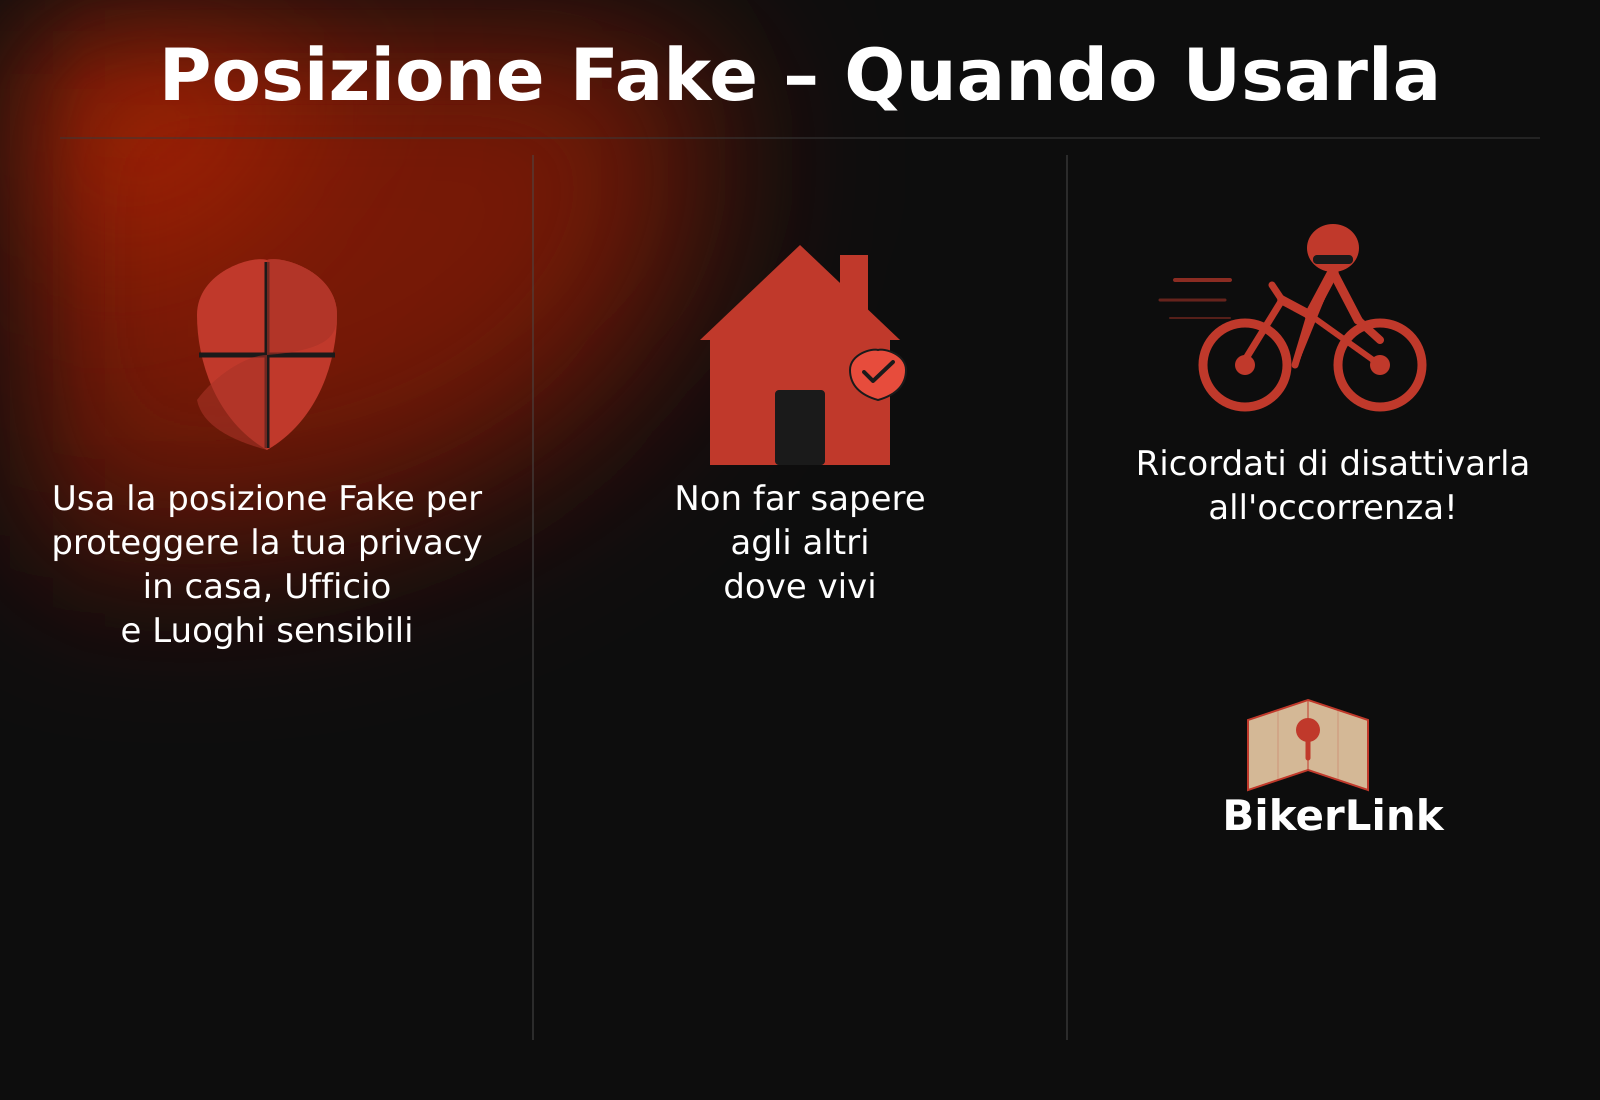
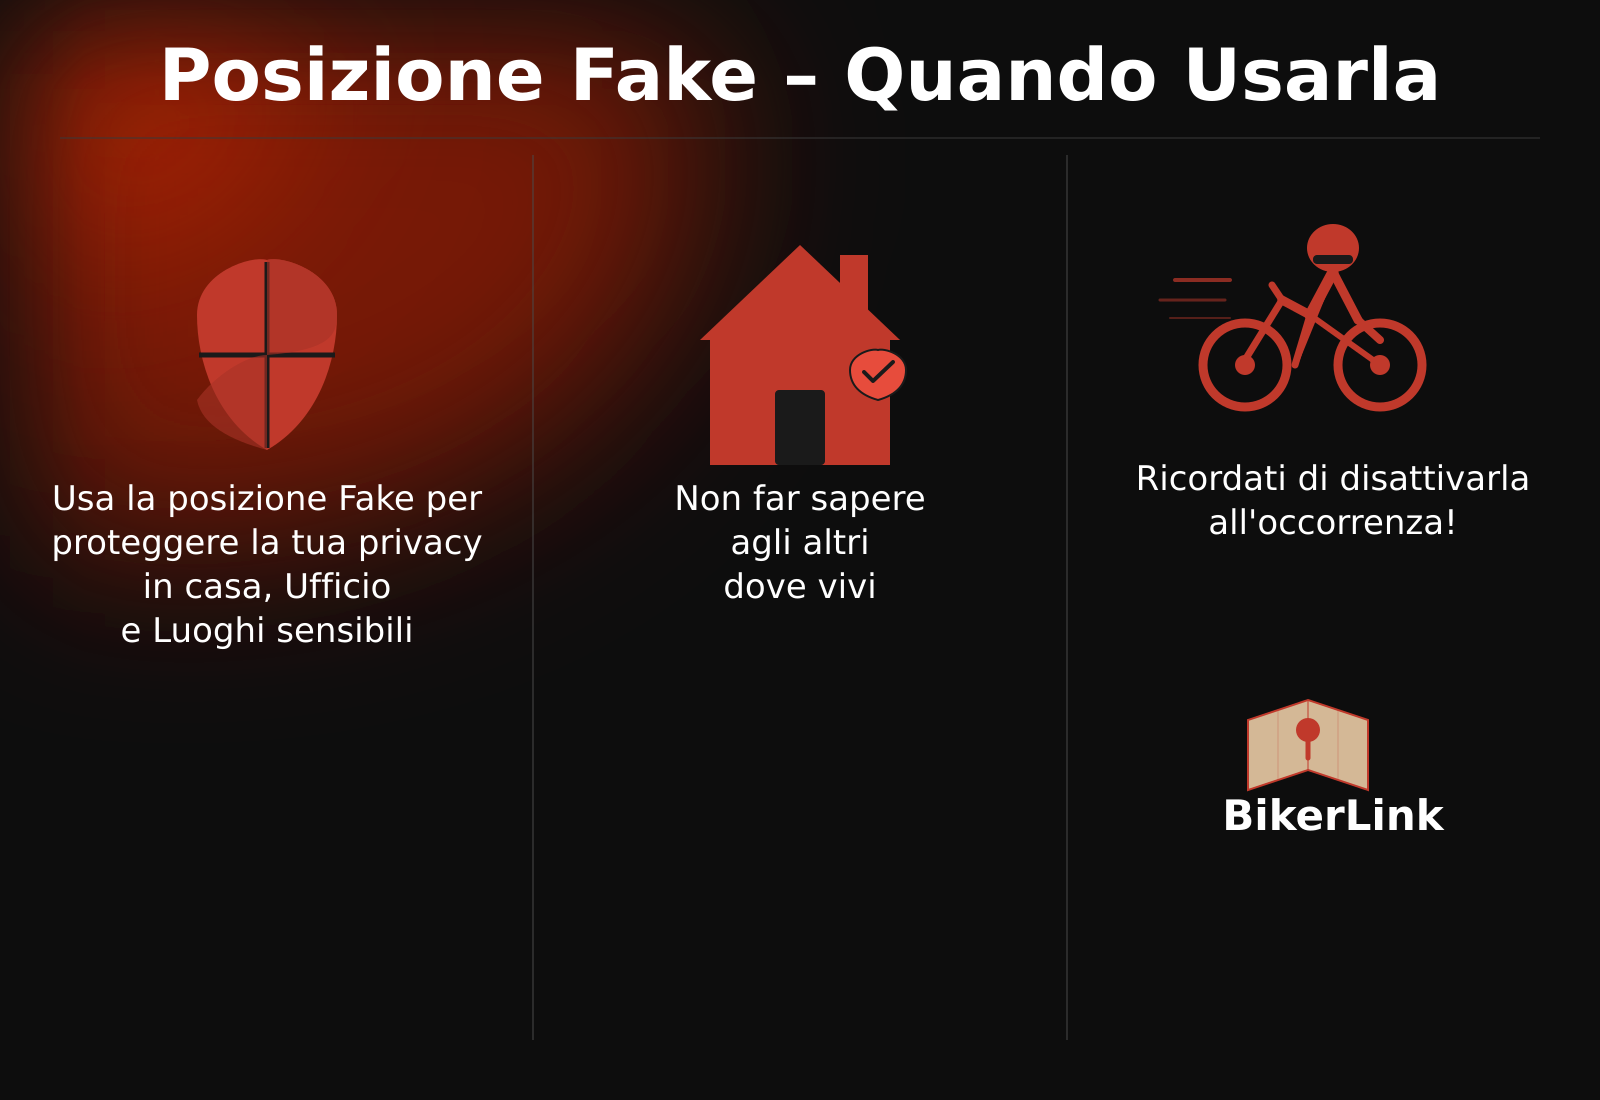
Task #898: Rigenera immagine Posizione Fake con testi corretti
Rigenerata l'immagine promozionale "Posizione Fake – Quando Usarla" con
i testi corretti forniti dall'utente.

Problema: L'immagine originale (03-posizione-fake-quando_1776976138066.png)
aveva testi AI-generati errati/nonsense ("Tento protezione la vectatto" ecc.)

Soluzione: Generazione programmatica con SVG+sharp (stesso approccio dei
screenshot Play Store, Task #897). Nessun emoji, solo forme SVG geometriche
e font DejaVu Sans per testi 100% leggibili.

File generato:
- attached_assets/03-posizione-fake-quando_corrected.png (1600x1100px)

Testi corretti nelle 3 colonne:
1. "Usa la posizione Fake per proteggere la tua privacy in casa,
    Ufficio e Luoghi sensibili"
2. "Non far sapere agli altri dove vivi"
3. "Ricordati di disattivarla all'occorrenza!"

Stile fedele all'originale:
- Sfondo scuro #0D0D0D con glow rosso in alto a sinistra (feGaussianBlur)
- Titolo "Posizione Fake – Quando Usarla" bianco bold 72px
- 3 colonne con separatori verticali
- Icone rosse SVG: scudo (quartered), casa+scudo, biker in bici+speed lines
- Logo BikerLink (mappa SVG + testo bold) nella colonna 3
- Script riutilizzabile: scripts/generate-fake-position-image.js

Follow-up proposto: Task #905 - Correzione altri slide guida BikerLink

Changed region(s): [[0.7188, 0.4018, 0.9688, 0.4945]]

diff --git a/scripts/generate-fake-position-image.js b/scripts/generate-fake-position-image.js
@@ -18,19 +18,6 @@ const svg = `<svg width="${W}" height="${H}" xmlns="http://www.w3.org/2000/svg">
     <filter id="glow" x="-50%" y="-50%" width="200%" height="200%">
       <feGaussianBlur stdDeviation="90" result="blur"/>
     </filter>
-    <filter id="softglow" x="-30%" y="-30%" width="160%" height="160%">
-      <feGaussianBlur stdDeviation="18" result="blur"/>
-      <feMerge><feMergeNode in="blur"/><feMergeNode in="SourceGraphic"/></feMerge>
-    </filter>
-    <clipPath id="col1clip">
-      <rect x="0" y="0" width="532" height="${H}"/>
-    </clipPath>
-    <clipPath id="col2clip">
-      <rect x="534" y="0" width="532" height="${H}"/>
-    </clipPath>
-    <clipPath id="col3clip">
-      <rect x="1068" y="0" width="532" height="${H}"/>
-    </clipPath>
   </defs>
 
   <!-- ── BACKGROUND ── -->
